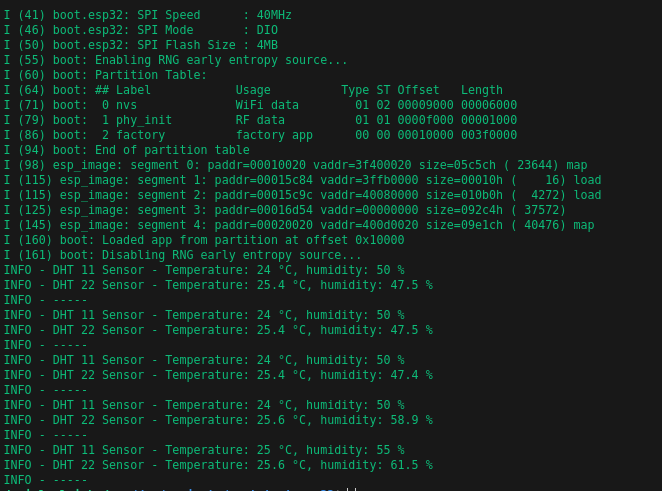
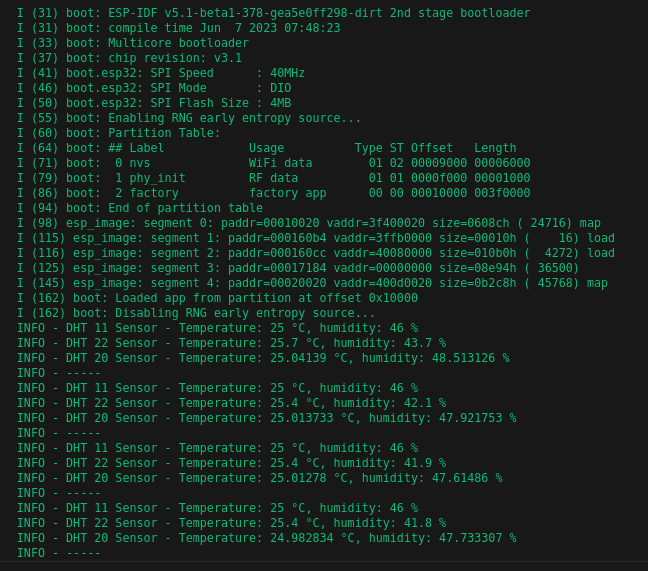
docs: update

Changed region(s): [[0.0, 0.0, 0.9568, 1.0], [0.679, 0.7026, 0.8025, 0.7637]]

diff --git a/README.md b/README.md
@@ -24,20 +24,19 @@ Here are some general tutorials that provide brief introductions to embedded pro
 
 ### Example - ESP32
 
+![running](/docs/example_esp32_wired.jpg)
+
 ```rust
 #![no_std]
 #![no_main]
 
-use embedded_dht_rs::{dht11::Dht11, dht22::Dht22};
+use embedded_dht_rs::{dht11::Dht11, dht20::Dht20, dht22::Dht22};
 use esp_backtrace as _;
 use esp_hal::{
-    clock::ClockControl,
-    delay::Delay,
-    gpio::{Io, Level, OutputOpenDrain, Pull},
-    peripherals::Peripherals,
-    prelude::*,
-    system::SystemControl,
+    clock::ClockControl, delay::Delay, gpio::{Io, Level, OutputOpenDrain, Pull}, i2c::I2C, peripherals::Peripherals, prelude::*, system::SystemControl
 };
+use fugit::HertzU32;
+
 #[entry]
 fn main() -> ! {
     let peripherals = Peripherals::take();
@@ -49,11 +48,20 @@ fn main() -> ! {
 
     let delay = Delay::new(&clocks);
 
-    let gpio4 = OutputOpenDrain::new(io.pins.gpio4, Level::High, Pull::None);
-    let gpio5 = OutputOpenDrain::new(io.pins.gpio5, Level::High, Pull::None);
+    let od_for_dht11 = OutputOpenDrain::new(io.pins.gpio4, Level::High, Pull::None);
+    let od_for_dht22 = OutputOpenDrain::new(io.pins.gpio5, Level::High, Pull::None);
+    let i2c_for_dht20 = I2C::new(
+        peripherals.I2C0, 
+        io.pins.gpio21,
+        io.pins.gpio22, 
+        HertzU32::kHz(400),
+        &clocks, 
+        None,
+    );
 
-    let mut dht11 = Dht11::new(gpio4, delay);
-    let mut dht22 = Dht22::new(gpio5, delay);
+    let mut dht11 = Dht11::new(od_for_dht11, delay);
+    let mut dht22 = Dht22::new(od_for_dht22, delay);
+    let mut dht20 = Dht20::new(i2c_for_dht20, delay);
 
     loop {
         delay.delay(5000.millis());
@@ -70,6 +78,15 @@ fn main() -> ! {
         match dht22.read() {
             Ok(sensor_reading) => log::info!(
                 "DHT 22 Sensor - Temperature: {} °C, humidity: {} %",
+                sensor_reading.temperature,
+                sensor_reading.humidity
+            ),
+            Err(error) => log::error!("An error occurred while trying to read sensor: {:?}", error),
+        }
+
+        match dht20.read() {
+            Ok(sensor_reading) => log::info!(
+                "DHT 20 Sensor - Temperature: {} °C, humidity: {} %",
                 sensor_reading.temperature,
                 sensor_reading.humidity
             ),
